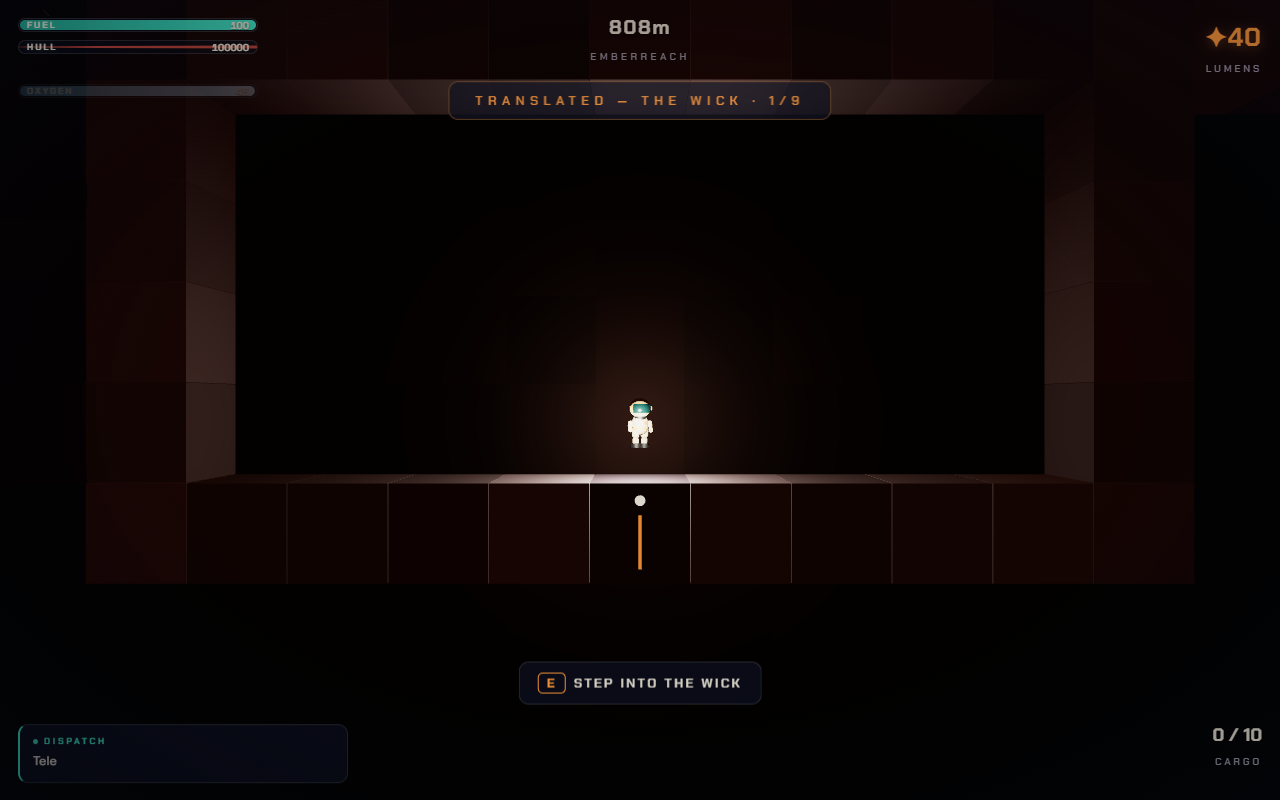
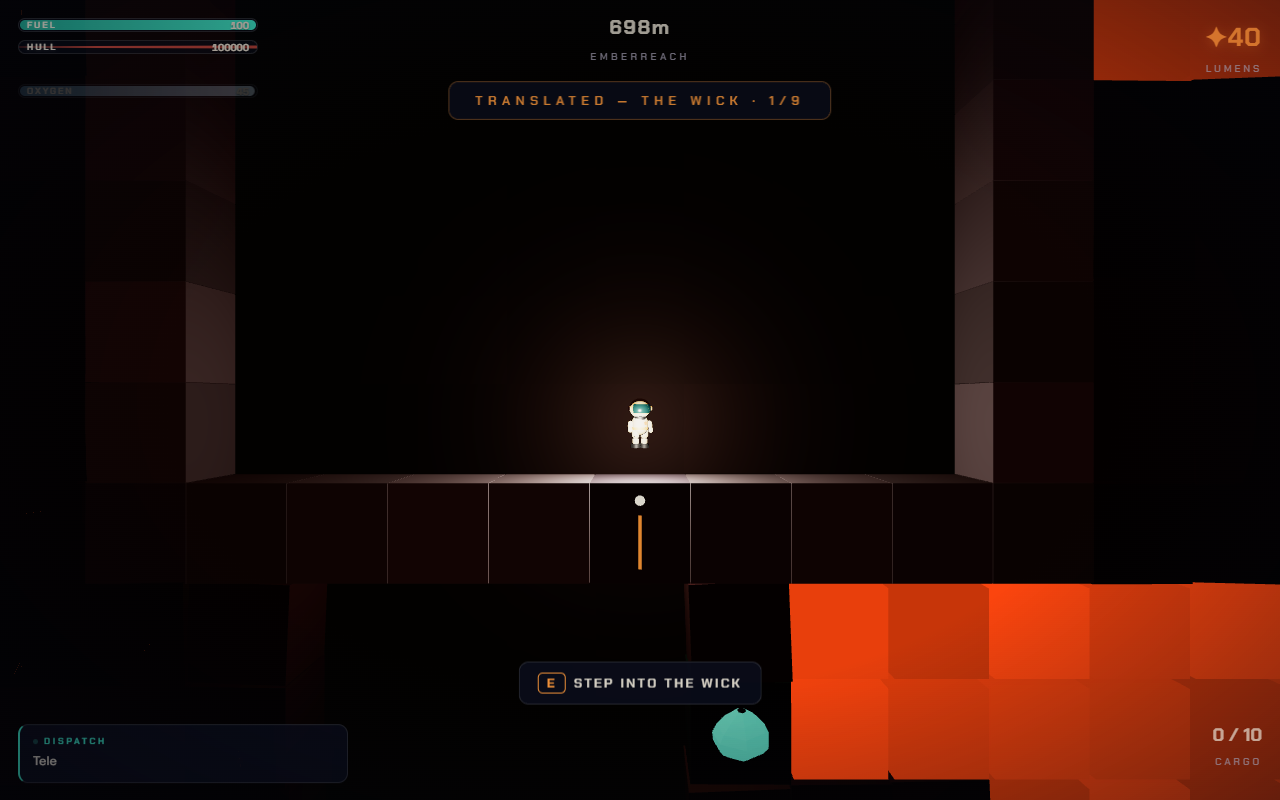
THE FAMINE falls the way THE WICK does
Four corrections, all of them the same note: vault 1 already solved this.

- A pit is not a deep shaft. Every platform in a hall is ONE COURSE THICK and
  floats; under all of them is eight courses of open air and then a plane of
  `_`, unlight that kills on touch and is never drawn. Miss a jump and you
  fall out of the level.
- The one-tile landings were columns of rock running to the basement, so a
  missed jump put you against a wall you could simply kick your way back up.
  A pillar with a face on it is a rescue. A floating stone is not.
- The halls now sit sixteen courses apart rather than twelve, because each
  needs its own eight courses of fall under it.
- A rail stands at the EDGE OF A LANDING, not out over the hole. Hung mid-pit
  it seated down the length of the fall and the bolt spent most of its round
  far below the jump, so you waited it out instead of threading it and the
  wall of light stopped being a wall. On a lip it stands on stone, spans
  exactly the hall, and is in the way for the whole of its round. Hall B's
  last gap gets both lips lit: you leave through one and arrive through the
  other, in one jump.

Two map-generation faults, both invisible until something died in the wrong
place: the kill plane was drawn straight across the lift shafts, so riding up
killed you on a floor that is not there for anyone standing on it -- and the
fix for that skipped by COLUMN rather than by rectangle, which punched holes
[…]

diff --git a/src/world/vaults.ts b/src/world/vaults.ts
@@ -359,24 +359,24 @@ export const VAULTS: VaultDef[] = [
     deadLight: true,
     // the beat clock: 2-4 pulses, phases on the quarter-pulse
     shuttles: [
-      { x0: 20, y0: 41, x1: 33, y1: 41, period: 2.55, phase: 0.0 },
-      { x0: 24, y0: 36, x1: 24, y1: 41, period: 1.70, phase: 0.25 },
-      { x0: 30, y0: 36, x1: 30, y1: 41, period: 1.70, phase: 0.75 },
-      { x0: 41, y0: 24, x1: 41, y1: 29, period: 2.55, phase: 0.0 },
-      { x0: 33, y0: 24, x1: 33, y1: 29, period: 2.55, phase: 0.5 },
-      { x0: 24, y0: 24, x1: 24, y1: 29, period: 1.70, phase: 0.25 },
-      { x0: 26, y0: 24, x1: 26, y1: 29, period: 1.70, phase: 0.75 },
-      { x0: 19, y0: 12, x1: 19, y1: 17, period: 1.70, phase: 0.0 },
-      { x0: 36, y0: 12, x1: 36, y1: 17, period: 1.70, phase: 0.5 },
-      { x0: 45, y0: 12, x1: 45, y1: 17, period: 1.70, phase: 0.25 }
+      { x0: 20, y0: 45, x1: 33, y1: 45, period: 2.55, phase: 0.0 },
+      { x0: 24, y0: 40, x1: 24, y1: 45, period: 1.70, phase: 0.25 },
+      { x0: 30, y0: 40, x1: 30, y1: 45, period: 1.70, phase: 0.75 },
+      { x0: 39, y0: 24, x1: 39, y1: 29, period: 2.55, phase: 0.0 },
+      { x0: 31, y0: 24, x1: 31, y1: 29, period: 2.55, phase: 0.5 },
+      { x0: 28, y0: 24, x1: 28, y1: 29, period: 1.70, phase: 0.25 },
+      { x0: 22, y0: 24, x1: 22, y1: 29, period: 1.70, phase: 0.75 },
+      { x0: 19, y0: 8, x1: 19, y1: 13, period: 1.70, phase: 0.0 },
+      { x0: 36, y0: 8, x1: 36, y1: 13, period: 1.70, phase: 0.5 },
+      { x0: 45, y0: 8, x1: 45, y1: 13, period: 1.70, phase: 0.25 }
     ],
     currents: [
       // The two roads up, at opposite ends: jump in and be carried. Named by
       // the SHAFT they cut through the rock -- the wind then fills whatever
       // that shaft opens into, at both ends, because a current that stopped
       // partway up a shaft would stop for no reason a player could see.
-      { x0: 50, y0: 30, x1: 53, y1: 35, force: 46 },
-      { x0: 19, y0: 18, x1: 22, y1: 23, force: 46 },
+      { x0: 50, y0: 30, x1: 53, y1: 39, force: 46 },
+      { x0: 19, y0: 14, x1: 22, y1: 23, force: 46 },
     ],
     map: [
       '########################################################',
@@ -387,21 +387,21 @@ export const VAULTS: VaultDef[] = [
       '########################################################',
       '########################################################',
       '########################################################',
-      '########################################################',
-      '########################################################',
-      '########################################################',
-      '########################################################',
       '###################...................................##',
       '###################...................................##',
-      '###################...........oooo............ooo.....##',
       '###################...................................##',
-      '###################.....................####..........##',
-      '###################.....S.....XXXX............XXXK.M..##',
+      '###################...................................##',
+      '###################...................................##',
+      '###################.....S........................K.M..##',
       '###################....#################################',
-      '###################....#################################',
-      '###################....#################################',
-      '###################....#################################',
-      '###################....#################################',
+      '###################...................................##',
+      '###################...................................##',
+      '###################...................................##',
+      '###################...................................##',
+      '###################...................................##',
+      '###################...................................##',
+      '###################...................................##',
+      '###################...._______________________________##',
       '###################....#################################',
       '###################...................................##',
       '###################oooo...............................##',
@@ -410,10 +410,14 @@ export const VAULTS: VaultDef[] = [
       '###################oooo...............................##',
       '###################oooo........................S......##',
       '#######################.....####....####....######....##',
-      '#######################.....####....####....######....##',
-      '#######################.....####....####....######....##',
-      '#######################.....####....####....######....##',
-      '#######################_____####____####____######....##',
+      '###################...................................##',
+      '###################...................................##',
+      '###################...................................##',
+      '###################...................................##',
+      '###################...................................##',
+      '###################...................................##',
+      '###################...................................##',
+      '###################_______________________________....##',
       '##################################################....##',
       '##....................................................##',
       '##................................................oooo##',
@@ -422,17 +426,15 @@ export const VAULTS: VaultDef[] = [
       '##................................................oooo##',
       '##..@..S..........................................oooo##',
       '##############.....################..#..#..#..#...######',
-      '##############.....################..#..#..#..#...######',
-      '##############.....################..#..#..#..#...######',
-      '##############.....################..#..#..#..#...######',
-      '##############.....################..#..#..#..#...######',
-      '##############.....################..#..#..#..#...######',
-      '##############.....################..#..#..#..#...######',
-      '##############.....################..#..#..#..#...######',
-      '##############.....################..#..#..#..#...######',
-      '##############.....################..#..#..#..#...######',
-      '##############.....################..#..#..#..#...######',
-      '##############_____################__#__#__#__#___######',
+      '##....................................................##',
+      '##....................................................##',
+      '##....................................................##',
+      '##....................................................##',
+      '##....................................................##',
+      '##....................................................##',
+      '##....................................................##',
+      '##____________________________________________________##',
+      '########################################################',
       '########################################################',
       '########################################################'
     ],

diff --git a/scripts/author-famine.py b/scripts/author-famine.py
@@ -1,4 +1,4 @@
-"""THE FAMINE — built to the drawing. 56 x 56.
+"""THE FAMINE — built to the drawing. 56 x 58.
 
     start ---> hall A ---> [wind] ---> hall B <--- [wind] ---> hall C ---> finish
                              up                     up
@@ -30,14 +30,16 @@ tiles, so a run of four is 0.92x and a run of five is past what legs can do.
 """
 import io
 
-W, HGT = 56, 56
+W, HGT = 56, 58
 MAXJ = 5.45
 PULSE = 0.85
 
 g = [['#'] * W for _ in range(HGT)]          # solid, and the halls are cut out
 
-# hall floor rows, bottom to top, and the six courses of air over each
-HALL = [42, 30, 18]
+# Hall floor rows, bottom to top, and the six courses of air over each. They
+# sit SIXTEEN apart, not twelve, because every hall needs eight courses of open
+# space under it for its fall before the kill plane -- see FALL below.
+HALL = [46, 30, 14]
 AIR = 6
 LEFT, RIGHT = 2, W - 3
 
@@ -78,6 +80,8 @@ for f, (a, b) in zip(HALL, HALL_X):
     carve(a, b, f - AIR, f - 1)
 
 # --- the channels: cut through the rock between the halls ------------------
+CH1_ROWS = (HALL[1] - 1, HALL[0] - 1)
+CH2_ROWS = (HALL[2] - 1, HALL[1] - 1)
 carve(CH1[0], CH1[1], HALL[1] - 1, HALL[0] - 1)      # A -> B, right end
 carve(CH2[0], CH2[1], HALL[2] - 1, HALL[1] - 1)      # B -> C
 
@@ -96,23 +100,18 @@ carve(CH2[0], CH2[1], HALL[2] - 1, HALL[1] - 1)      # B -> C
 # flat run crossed by one horizontal rail AND two vertical ones over the top
 # of it, four jumps onto one-tile landings, and the lift out.
 # ===========================================================================
-# A pit's bottom is a VOID (`_`) -- unlight that is never drawn. The first pass
-# floored them with visible unlight, which lights the hole and turns a fall
-# into a landing on something; THE WICK's pits are open sky and read as an
-# absence, and these read the same way.
+# THE FALL, done the way THE WICK does it.
 #
-# HOW DEEP IS WHATEVER ROCK THERE IS. A fixed depth put hall B's pit floors
-# eleven courses down, which is through the five courses of rock under it and
-# out into HALL A'S AIR -- lethal tiles hanging in the middle of the hall
-# below, and the pit itself a hole between two storeys. The bottom hall gets
-# the whole basement; the others get the band under them, less the course that
-# is the next hall's ceiling.
-def pit_depth(h):
-    below = HALL[h - 1] - AIR - 1 if h > 0 else HGT - 2
-    return below - HALL[h] - 1
-
-
-PIT_DEPTH = [pit_depth(h) for h in range(3)]
+# Every platform in a hall is ONE COURSE THICK and floats. Under all of them is
+# eight courses of open air and then a plane of `_` -- unlight that kills on
+# touch and is never drawn. Miss a jump and you fall out of the level.
+#
+# The first pass got this wrong twice. It carved each pit as a deep shaft and
+# floored it with drawn unlight, which lights the hole; and it left the ground
+# between the pits as columns of rock running to the basement, so a missed
+# landing put you against a wall you could simply kick your way back up. A
+# pillar with a face on it is a rescue. A floating stone is not.
+FALL = 8
 
 SOLID = [
     [(2, 13), (19, 34), (37, 37), (40, 40), (43, 43), (46, 46), (CH1[0], CH1[1])],
@@ -121,36 +120,62 @@ SOLID = [
     # and TWO in the last one, both to be threaded in a single jump -- landing
     # in the second lift.
     [(CH2[0], CH2[1]), (28, 31), (36, 39), (44, 49)],
-    [(CH2[0], RIGHT)],
+    [(CH2[0], RIGHT)],          # hall C is a placeholder until its brief
 ]
 PIT = [
     [(14, 18), (35, 36), (38, 39), (41, 42), (44, 45), (47, 49)],
     [(23, 27), (32, 35), (40, 43)],
     [],
 ]
-STUDS = [[], [], [(30, 4), (46, 3)]]
-LEDGES = [[], [], [(40, 4)]]
+STUDS = [[], [], []]
+LEDGES = [[], [], []]
 LASER = [
     # the long flat run, all three lights over the same stretch of floor
     [('h', 20, 33, 3, 0.0), ('v', 24, 2, 0.25), ('v', 30, 2, 0.75)],
-    # one in each gap, and two in the last: 1.10x is the whole width of the
-    # legs' reach, so threading both is one jump with no room to hesitate
-    [('v', 41, 3, 0.0), ('v', 33, 3, 0.5), ('v', 24, 2, 0.25), ('v', 26, 2, 0.75)],
+    # A rail stands at the EDGE OF A LANDING, not out over the hole. Hung mid
+    # pit it seats down the length of the fall and the bolt spends most of its
+    # round far below the jump, so you wait it out instead of threading it --
+    # the wall of light stops being a wall. On a lip it stands on stone, spans
+    # exactly the hall, and is in the way for the whole of its round.
+    #
+    # Read right to left, so a landing's near edge is its RIGHT one. The last
+    # gap gets both of its lips lit: you leave through one and arrive through
+    # the other, in a single jump.
+    [('v', 39, 3, 0.0), ('v', 31, 3, 0.5), ('v', 28, 2, 0.25), ('v', 22, 2, 0.75)],
     [('v', 19, 2, 0.0), ('v', 36, 2, 0.5), ('v', 45, 2, 0.25)],
 ]
 LEDGE_RISE = 2
+
+for h in range(1, 3):
+    ceiling = HALL[h - 1] - AIR - 1
+    assert HALL[h] + FALL < ceiling, (
+        "hall %d kill plane at %d is inside hall %d, whose ceiling is %d"
+        % (h, HALL[h] + FALL, h - 1, ceiling))
 
 # a hall's floor exists only where the table says it does
 for h, f in enumerate(HALL):
     for x in range(HALL_X[h][0], HALL_X[h][1] + 1):
         if not any(a <= x <= b for a, b in SOLID[h]):
             g[f][x] = '.'
+    # Hollow the whole hall out beneath its floor, then lay the kill plane --
+    # but NOT across a lift shaft. The shafts run through these bands, and a
+    # plane drawn straight over them puts unlight inside the wind: you get in
+    # at the bottom, are carried up, and are killed on the way by a floor that
+    # is not there for anyone standing on it.
+    carve(HALL_X[h][0], HALL_X[h][1], f + 1, f + FALL - 1)
+    for x in range(HALL_X[h][0], HALL_X[h][1] + 1):
+        # Inside a shaft the plane is OPEN, not merely un-lethal -- leaving the
+        # base rock there hangs a ledge across the wind for the body to land
+        # on. Tested as a RECTANGLE and not a column: a shaft only runs between
+        # two particular halls, and skipping by column alone punched holes in
+        # kill planes the shaft never passes through, leaving standable ledges
+        # in the basement.
+        y = f + FALL
+        inShaft = any(c0 <= x <= c1 and r0 <= y <= r1
+                      for (c0, c1), (r0, r1) in ((CH1, CH1_ROWS), (CH2, CH2_ROWS)))
+        put(x, y, '.' if inShaft else '_')
     for x0, x1 in PIT[h]:
-        d = PIT_DEPTH[h]
-        assert d >= 3, 'hall %d has only %d courses of rock for a pit' % (h, d)
-        carve(x0, x1, f, f + d - 1)
-        for x in range(x0, x1 + 1):
-            put(x, f + d, '_')                  # unlight you never see
+        carve(x0, x1, f, f)                     # and the floor is simply absent
     for x0, n in STUDS[h]:
         studs(f, x0, n)
     for x0, n in LEDGES[h]:
